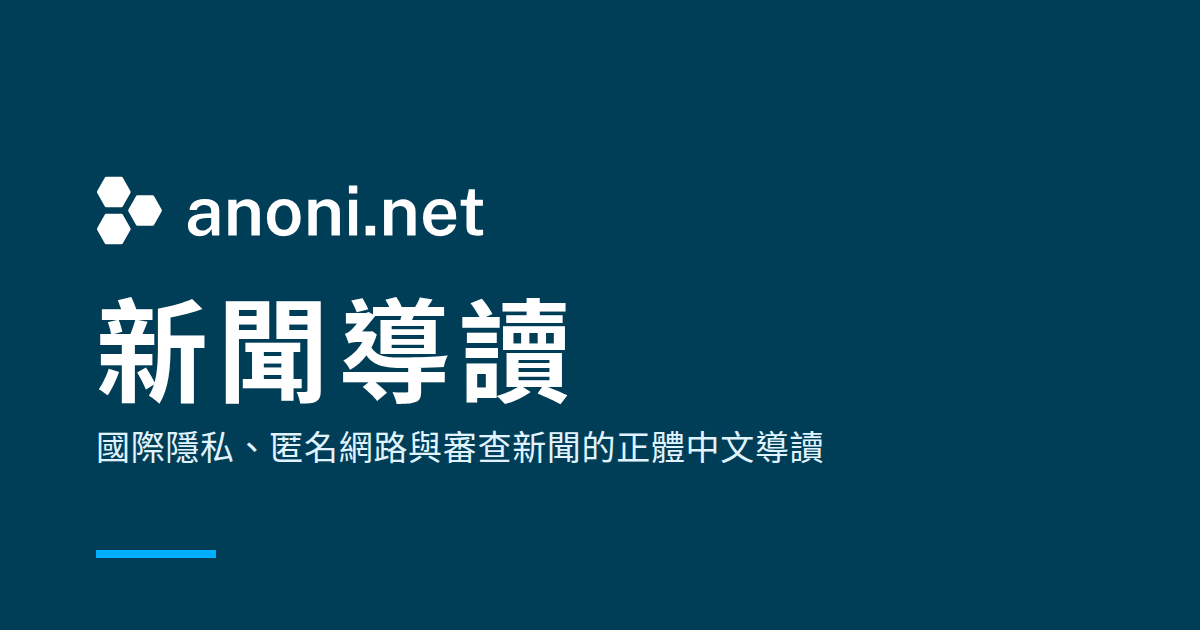
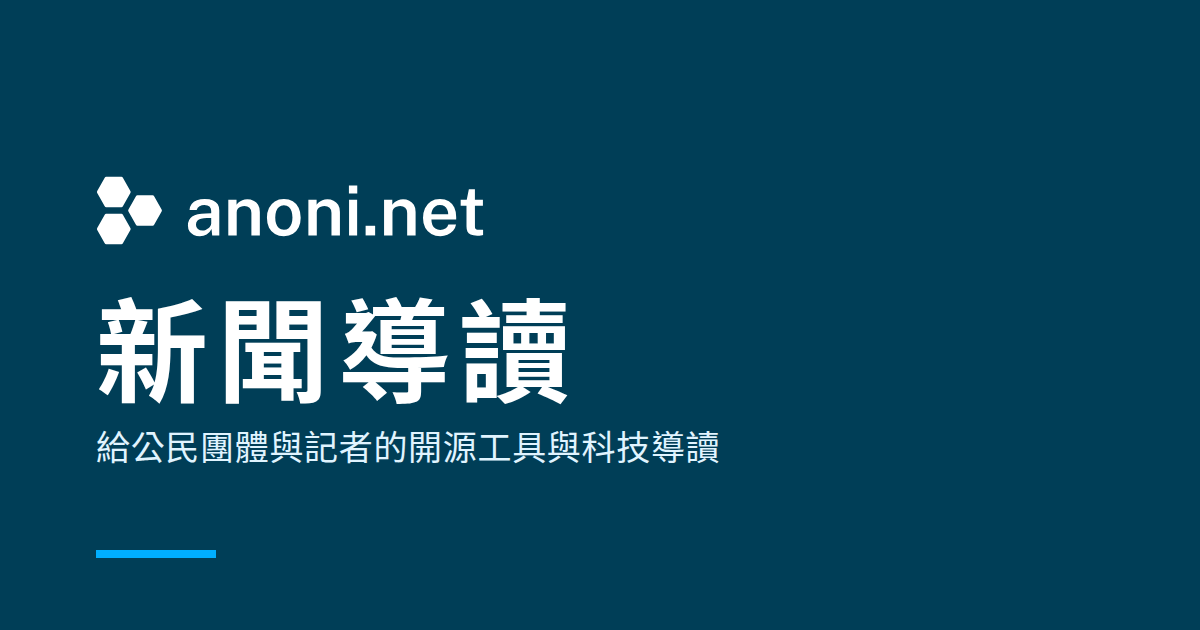
docs: 定位改為給公民團體與記者的開源工具與科技導讀
新聞導讀改成介紹讓公民團體、記者與調查記者把工作做得更快、更安全的
開源專案與科技工具。

- README 加上「選題」一節，寫明優先與不選的內容、工具類要先查的四項
- SPEC 的內文結構把「跟正體中文使用者的關係」改成「讀者如何取用」
- 首頁標語、頁面描述、RSS 描述與 og.png 換成新的定位

Changed region(s): [[0.0617, 0.6635, 0.7092, 0.754]]

diff --git a/tools/og.html b/tools/og.html
@@ -24,7 +24,7 @@
 <body>
   <img src="../static/logo-wordmark-white.svg" alt="">
   <h1>新聞導讀</h1>
-  <p>國際隱私、匿名網路與審查新聞的正體中文導讀</p>
+  <p>給公民團體與記者的開源工具與科技導讀</p>
   <div class="bar"></div>
 </body>
 </html>

diff --git a/README.md b/README.md
@@ -1,8 +1,16 @@
 # anoni.net 新聞導讀
 
-`anoni.net/news` 的文章與網站原始碼。整理國際上隱私、匿名網路與網路審查的新聞，一則寫成一篇正體中文的導讀。每篇附原文連結、來源與日期、用自己的話寫的摘要，以及跟正體中文使用者的關係。[文件站](https://anoni.net/docs/)有合適的頁面時，附上延伸閱讀。
+`anoni.net/news` 的文章與網站原始碼。介紹讓公民團體、記者與調查記者把工作做得更快、更安全的開源專案與科技工具，一則寫成一篇正體中文的導讀。每篇附原文連結、來源與日期、用自己的話寫的摘要，以及讀者如何取用：工具的授權、維護狀態、使用門檻與介面語言。[文件站](https://anoni.net/docs/)有合適的頁面時，附上延伸閱讀。
 
 由[匿名網路社群 anoni.net](https://anoni.net/) 維護，是 anoni.net 底下的產品之一。
+
+## 選題
+
+優先選讀者今天就能下載、執行或照著做的內容，例如開源工具的新發布、公開方法與資料的調查手法、開放資料集與 API、記者與公民團體的數位安全工具。其次是會讓既有工作方式需要調整的變化，例如平台關閉 API、常用工具改變使用方式、新的監控手法與檢測方式。
+
+版本公告、沒有公開方法的調查報導本身、純政策聲明與閉源產品的行銷文不選。主要用途是追查特定個人的工具也不選，導讀容易成為濫用的操作說明。
+
+工具類的文章寫稿前先看過專案頁面，確認授權、最近一次發布的時間、使用門檻與介面語言。最近一年沒有發布的專案不選，除非文章本身就在說明它停止維護。導讀寫工具能做什麼、誰在維護、如何取得，不寫哪個地區、哪個族群的人在用它。
 
 ## 跟文件站的分工
 

diff --git a/AGENTS.md b/AGENTS.md
@@ -4,7 +4,7 @@
 
 ## 專案概述
 
-`anoni.net/news` 是匿名網路社群 anoni.net 的新聞導讀，整理國際上隱私、匿名網路與網路審查的新聞，一則寫成一篇。跟文件站（`anoni-net/docs`，網址 `anoni.net/docs`）的分工寫在 [`README.md`](./README.md)。
+`anoni.net/news` 是匿名網路社群 anoni.net 的新聞導讀，介紹讓公民團體、記者與調查記者把工作做得更快、更安全的開源專案與科技工具，一則寫成一篇。選題標準與跟文件站（`anoni-net/docs`，網址 `anoni.net/docs`）的分工寫在 [`README.md`](./README.md)。
 
 目前在籌備階段。網站由本 repo 的 `build.py` 產生，規格在 [`SPEC.md`](./SPEC.md)，要改行為先改規格。
 
